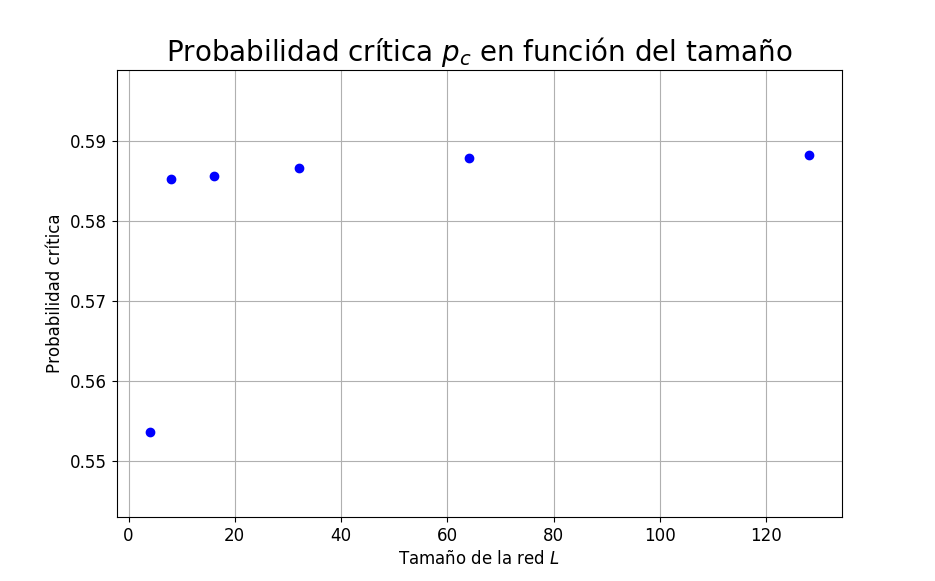
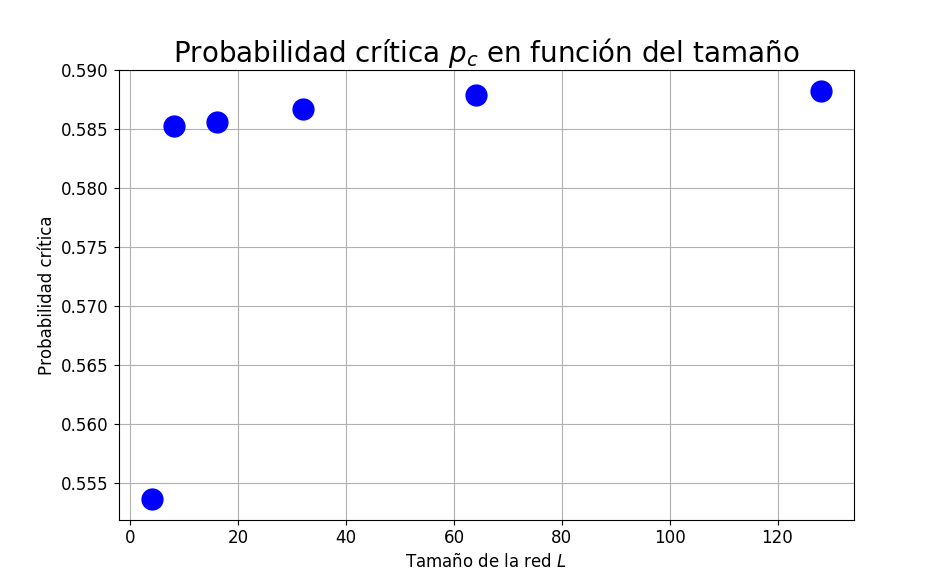
hechas figuras para informe

diff --git a/percolacion/data/analisis_1a.py b/percolacion/data/analisis_1a.py
@@ -40,7 +40,7 @@ plt.close(fig)
 
 
 plt.figure()
-plt.scatter(L, pc_prom, color='b', label = 'p_c')
+plt.plot(L, pc_prom, color='b', label = 'p_c', markersize = 20, marker = 'o', linestyle = 'none')
 plt.xlabel('Tamaño de la red $L$', fontsize=12)
 plt.ylabel('Probabilidad crítica', fontsize=12)
 plt.title('Probabilidad crítica $p_c$ en función del tamaño', fontsize=20)
